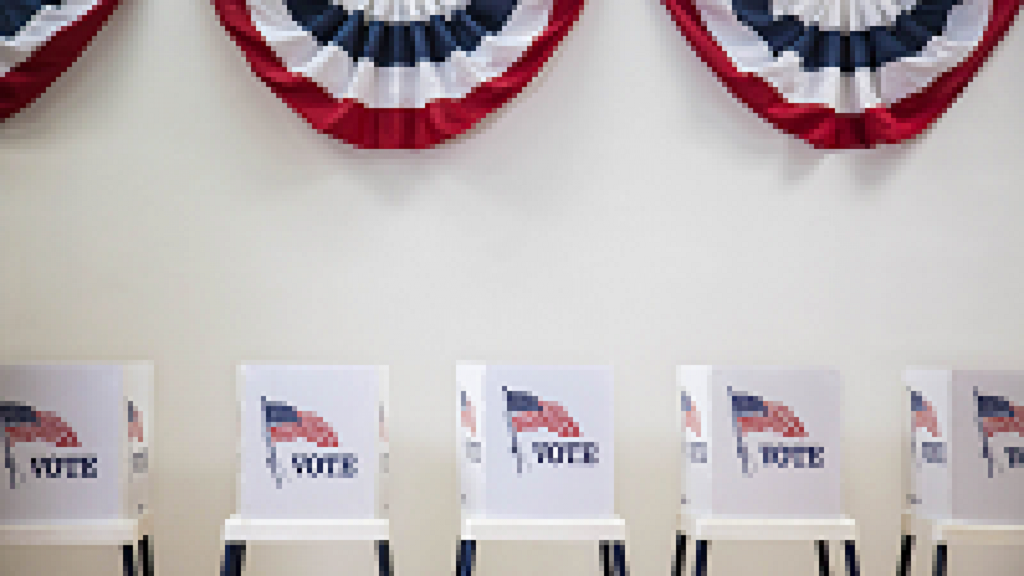
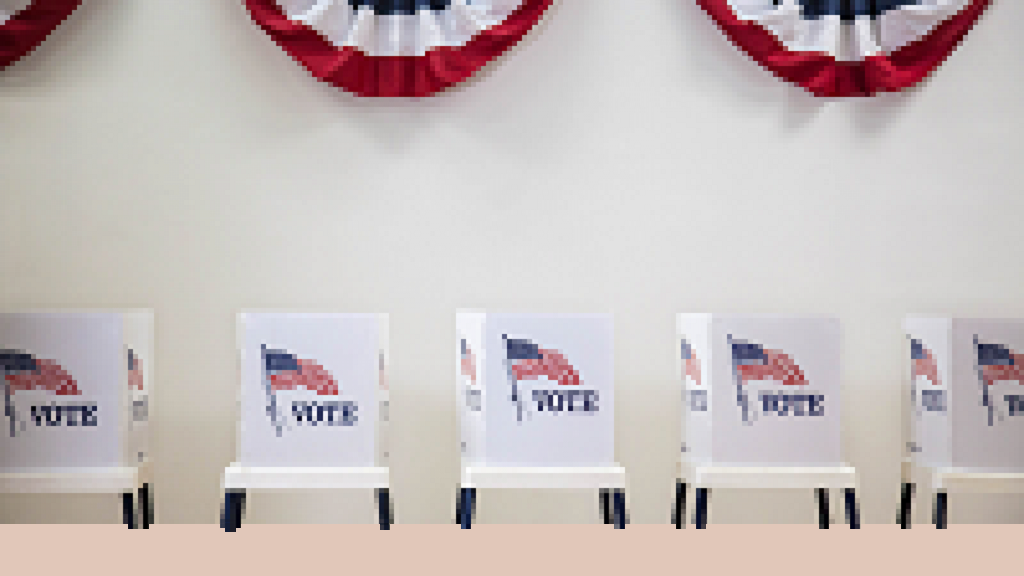
ytdyy

diff --git a/Save The Count/main.py b/Save The Count/main.py
@@ -9,7 +9,7 @@ pygame.init()
 pygame.mixer.init(44100, -16, 2, 2048)
 # Fenêtre de base
 
-pygame.display.set_caption("Save the count")  # TODO A changer
+pygame.display.set_caption("CAPITOL CONQUEST")  # TODO A changer
 screen = pygame.display.set_mode((1024, 576))
 clock = pygame.time.Clock()
 
@@ -115,7 +115,7 @@ while running:
 
             background = pygame.image.load('asset/chamber.jpg')
 
-        if game.count_policiers == 0:
+        if (game.count_policiers == 0 & game.level[-1] == False):
             screen.blit(arrow, (800, 200))
 
         # HUD
@@ -181,7 +181,7 @@ while running:
 
     if game.pressed.get(pygame.K_SPACE) and game.playing == False:
         game.playing = True
-        background = pygame.image.load('asset/background.png')
+        background = pygame.image.load('asset/voting.png')
 
         game.spawn_senator_blue(1)
         game.spawn_senator_red(1)
